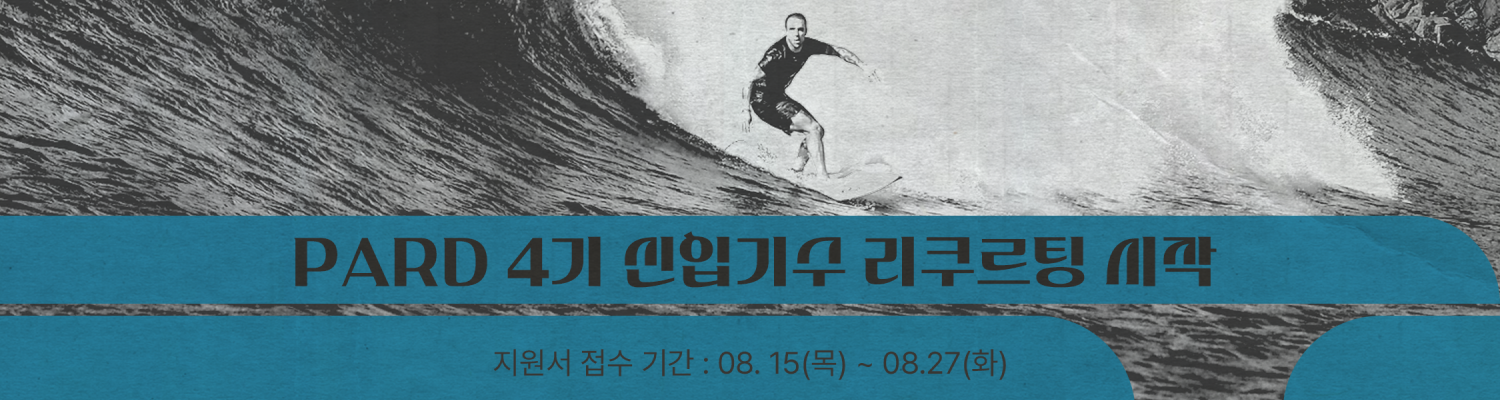
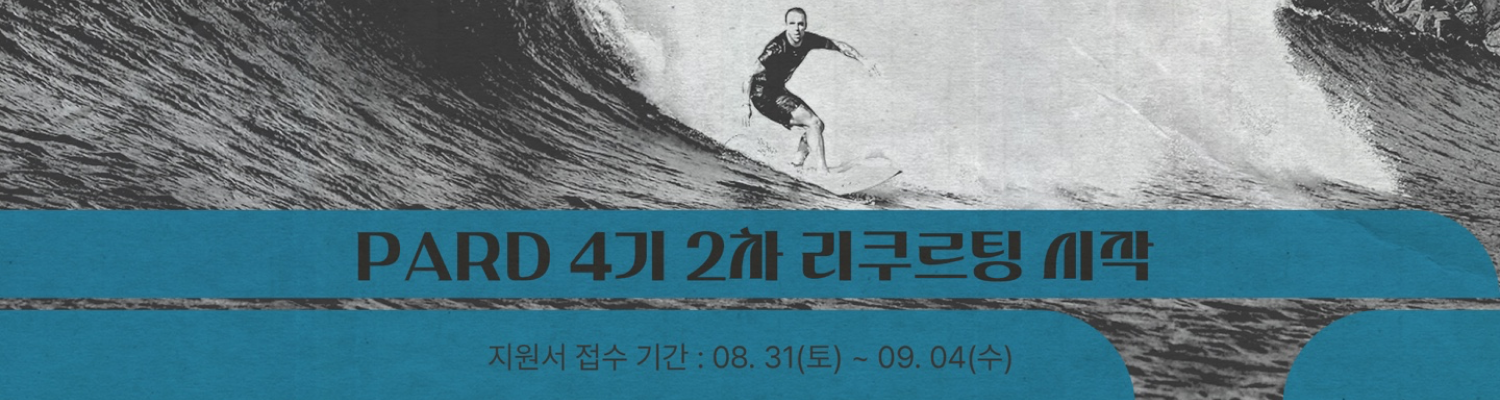
fix: recruting state

diff --git a/src/components/Web/Components/BannerWeb.js b/src/components/Web/Components/BannerWeb.js
@@ -35,7 +35,6 @@ export const BannerWeb = () => {
 
 const BannerImg = styled.div`
   width: 100vw;
-  /* height: 100px; */
 
   img {
     width: 100%;
